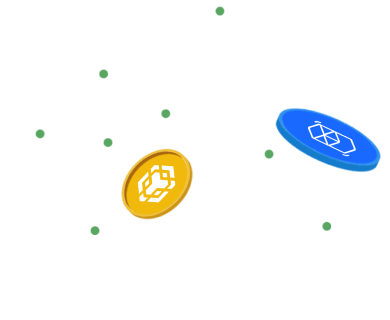
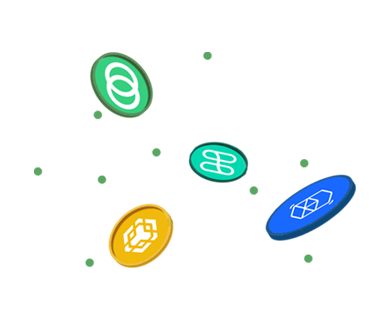
update hero with new bg

diff --git a/src/components/Home/Hero/Hero.tsx b/src/components/Home/Hero/Hero.tsx
@@ -25,7 +25,7 @@ const Outer = styled.div`
   text-align: center;
 
   @media (min-width: ${theme.breakpoints.sm}px) {
-    background-position: left top, right top, left bottom, right bottom;
+    background-position: left 10%, right 10%, left bottom, right bottom;
     background-size: ${(theme.breakpoints.sm - 48) / 2}px ${((theme.breakpoints.sm - 48) / 2) * r}px;
   }
 
